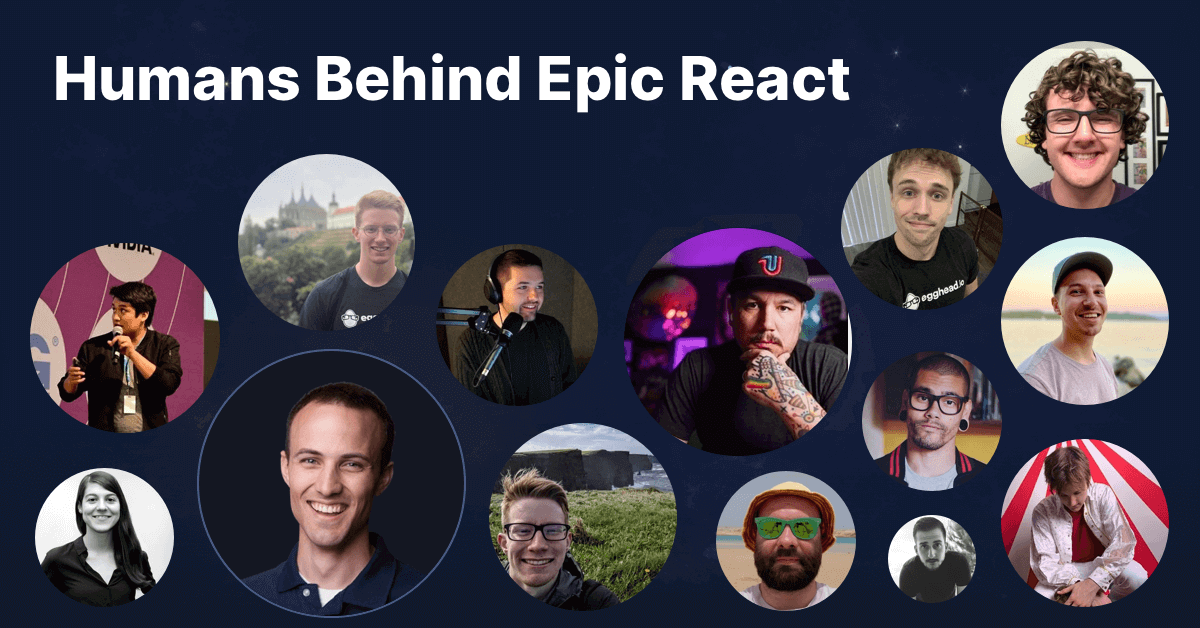
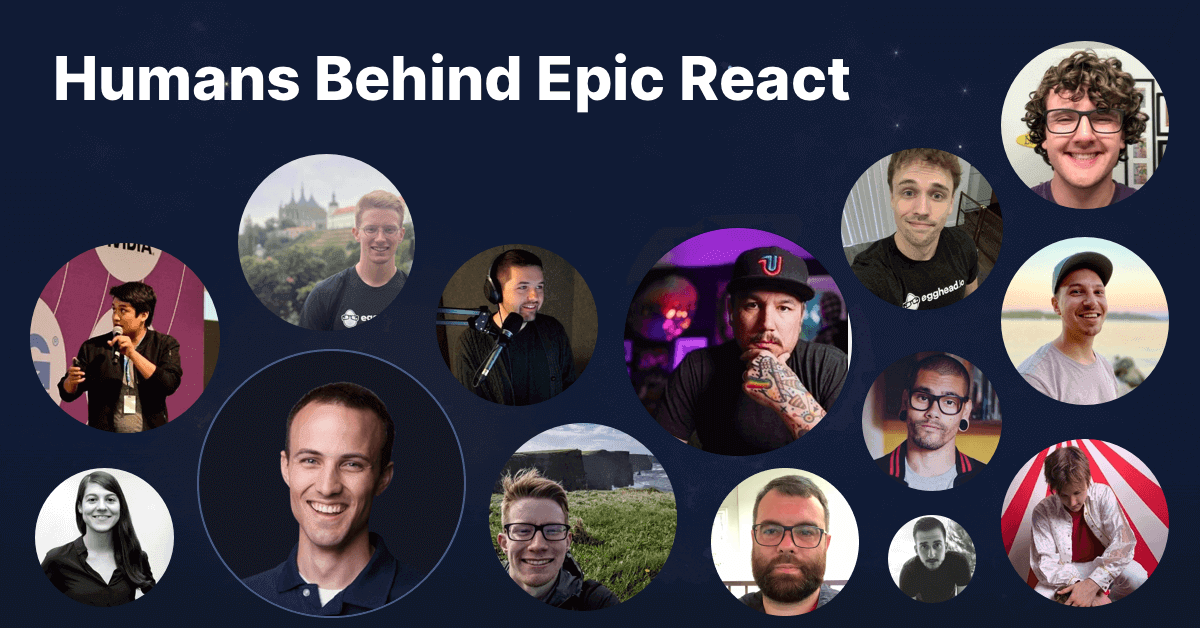
/credits page

Changed region(s): [[0.5858, 0.7261, 0.74, 0.9984]]

diff --git a/apps/epic-react/src/pages/credits.tsx b/apps/epic-react/src/pages/credits.tsx
@@ -1,0 +1,110 @@
+import React from 'react'
+import Image from 'next/image'
+import Link from 'next/link'
+
+import Layout from '@/components/app/layout'
+import Divider from '@/components/divider'
+import team from '@/content/team'
+
+const CreditsPage = () => {
+  return (
+    <Layout
+      meta={{
+        title: 'Epic React Production Credits',
+        ogImage: {
+          url: `${process.env.NEXT_PUBLIC_URL}/og-images/credits@2x.png`,
+          alt: 'og image',
+        },
+      }}
+      className="relative"
+    >
+      <div className="mx-auto max-w-screen-lg px-8 py-24 sm:pb-32 sm:pt-16">
+        <div className="mx-auto max-w-lg">
+          <Image
+            src="/assets/space-eggo@2x.png"
+            alt="space eggo"
+            width={1612}
+            height={1328}
+          />
+        </div>
+        <h1 className="mt-6 text-center text-[44px] font-bold leading-tight">
+          Humans Behind Epic React
+        </h1>
+        <Divider className="mb-16 mt-10" />
+        <div className="prose mx-auto my-16 lg:prose-xl">
+          <p>
+            EpicReact.dev is the best place for web developers of all experience
+            levels to learn React from the basics through to advanced concepts
+            and building a real-world application.
+          </p>
+
+          <p>
+            Kent C. Dodds and egghead have collaborated to make Epic React a
+            truly high-quality and delightful learning experience for you. Kent
+            created, designed and recorded all the content, while egghead team
+            members and collaborators provided planning, design and development
+            support. Epic React is also built using egghead infrastructure as
+            the CMS.
+          </p>
+
+          <p>Meet the humans who have helped make Epic React possible.</p>
+        </div>
+        <div className="grid grid-cols-1 gap-16 sm:grid-cols-2 sm:gap-8">
+          {team.map((person) => (
+            <div
+              className="flex flex-col items-center overflow-hidden rounded-lg"
+              key={person.name}
+            >
+              <div className="w-48 overflow-hidden rounded-lg sm:w-64">
+                <Image
+                  src={`${process.env.NEXT_PUBLIC_URL}/assets/team${person.avatar}`}
+                  alt={person.name}
+                  width={256}
+                  height={256}
+                  className="w-full bg-gray-100"
+                />
+              </div>
+              <div className="mt-4 p-0 text-center sm:mt-0 sm:p-8">
+                <h1 className="text-2xl font-bold">{person.name}</h1>
+                <h2 className="my-3 text-sm uppercase tracking-wider text-react">
+                  {person.title}
+                </h2>
+                <p className="text-lg leading-relaxed text-er-gray-700">
+                  {person.description}
+                </p>
+                {person.link && (
+                  <Link
+                    href={person.link.url}
+                    className="mt-4 inline-flex cursor-pointer items-center rounded-md bg-er-gray-200 px-3 py-2"
+                    target="_blank"
+                  >
+                    {person.link.label === 'Twitter' ? (
+                      //    prettier-ignore
+                      <svg className="mr-1 text-react" xmlns="http://www.w3.org/2000/svg" width="20" height="20" viewBox="0 0 24 24"><g fill="currentColor"><path fill="none" d="M0 0h24v24H0z"></path><path d="M22.162 5.656a8.384 8.384 0 0 1-2.402.658A4.196 4.196 0 0 0 21.6 4c-.82.488-1.719.83-2.656 1.015a4.182 4.182 0 0 0-7.126 3.814 11.874 11.874 0 0 1-8.62-4.37 4.168 4.168 0 0 0-.566 2.103c0 1.45.738 2.731 1.86 3.481a4.168 4.168 0 0 1-1.894-.523v.052a4.185 4.185 0 0 0 3.355 4.101 4.21 4.21 0 0 1-1.89.072A4.185 4.185 0 0 0 7.97 16.65a8.394 8.394 0 0 1-6.191 1.732 11.83 11.83 0 0 0 6.41 1.88c7.693 0 11.9-6.373 11.9-11.9 0-.18-.005-.362-.013-.54a8.496 8.496 0 0 0 2.087-2.165z"></path></g></svg>
+                    ) : (
+                      //  prettier-ignore
+                      <svg className="mr-1 text-react" xmlns="http://www.w3.org/2000/svg" width="20" height="20" viewBox="0 0 24 24"><g fill="currentColor"><path fill="none" d="M0 0h24v24H0z"/><path d="M19.989 11.572a7.96 7.96 0 0 0-1.573-4.351 9.749 9.749 0 0 1-.92.87 13.157 13.157 0 0 1-3.313 2.01c.167.35.32.689.455 1.009v.003a9.186 9.186 0 0 1 .11.27c1.514-.17 3.11-.108 4.657.101.206.028.4.058.584.088zm-9.385-7.45a46.164 46.164 0 0 1 2.692 4.27c1.223-.482 2.234-1.09 3.048-1.767a7.88 7.88 0 0 0 .796-.755A7.968 7.968 0 0 0 12 4a8.05 8.05 0 0 0-1.396.121zM4.253 9.997a29.21 29.21 0 0 0 2.04-.123 31.53 31.53 0 0 0 4.862-.822 54.365 54.365 0 0 0-2.7-4.227 8.018 8.018 0 0 0-4.202 5.172zm1.53 7.038c.388-.567.898-1.205 1.575-1.899 1.454-1.49 3.17-2.65 5.156-3.29l.062-.018c-.165-.364-.32-.689-.476-.995-1.836.535-3.77.869-5.697 1.042-.94.085-1.783.122-2.403.128a7.967 7.967 0 0 0 1.784 5.032zm9.222 2.38a35.947 35.947 0 0 0-1.632-5.709c-2.002.727-3.597 1.79-4.83 3.058a9.77 9.77 0 0 0-1.317 1.655A7.964 7.964 0 0 0 12 20a7.977 7.977 0 0 0 3.005-.583zm1.873-1.075a7.998 7.998 0 0 0 2.987-4.87c-.34-.085-.771-.17-1.245-.236a12.023 12.023 0 0 0-3.18-.033 39.368 39.368 0 0 1 1.438 5.14zM12 22C6.477 22 2 17.523 2 12S6.477 2 12 2s10 4.477 10 10-4.477 10-10 10z"/></g></svg>
+                    )}
+                    {person.link.label}
+                  </Link>
+                )}
+              </div>
+            </div>
+          ))}
+        </div>
+        <div className="mt-12 flex justify-center">
+          <a href="https://egghead.io" target="_blank">
+            <Image
+              src="/assets/egghead-logo.svg"
+              alt="eggheadio logo"
+              width={200}
+              height={50}
+            />
+          </a>
+        </div>
+      </div>
+    </Layout>
+  )
+}
+
+export default CreditsPage

diff --git a/apps/epic-react/src/content/team.ts b/apps/epic-react/src/content/team.ts
@@ -1,0 +1,114 @@
+export default [
+  {
+    name: 'Kent C. Dodds',
+    title: 'Workshop Creation and Instruction',
+    description:
+      "Kent designed, created and recorded all the material for Epic React to teach you everything he knows about React in a clear, path-driven way. He's rigorously tested the content in a series of live workshops and revised it based on feedback from learners.",
+    link: {url: 'https://twitter.com/kentcdodds', label: 'Twitter'},
+    avatar: '/kent-c-dodds.jpg',
+  },
+  {
+    name: 'Joel Hooks',
+    title: 'Executive Producer',
+    description:
+      'Joel managed and coordinated the production of Epic React, working closely with Kent from conception to implementation as well as serving as technical architect and lead developer for the custom courseware that drives the course.',
+    link: {url: 'https://twitter.com/jhooks', label: 'Twitter'},
+    avatar: '/joel-hooks.jpg',
+  },
+  {
+    name: 'Maggie Appleton',
+    title: 'Art Direction',
+    description:
+      'Maggie translated the concepts taught in Epic React into the space-themed metaphors and provided a cohesive creative vision for the beautiful illustration work.',
+    link: {url: 'https://twitter.com/mappletons', label: 'Twitter'},
+    avatar: '/maggie-appleton.jpg',
+  },
+  {
+    name: 'Vojta Holik',
+    title: 'UI/UX Design & Development',
+    description:
+      'As product designer/developer, Vojta handled the UI/UX design and development of Epic React.',
+    link: {url: 'https://twitter.com/vojta_holik', label: 'Twitter'},
+    avatar: '/vojta-holik.jpg',
+  },
+  {
+    name: 'Ian Jones',
+    title: 'Back-End Development / Infrastructure',
+    description:
+      "Ian did the back-end development to build Epic React as a standalone product using Gatsby and MDX for this massive workshop, using egghead's infrastructure as the CMS.",
+    link: {url: 'https://twitter.com/_jonesian', label: 'Twitter'},
+    avatar: '/ian-jones.jpg',
+  },
+  {
+    name: 'Taylor Bell',
+    title: 'Learning Design Support',
+    description:
+      'Taylor worked with Kent during the workshop design process to help define the learner outcomes and concepts that would be taught in each of the modules, as well as the plan to achieve those outcomes.',
+    link: {url: 'https://twitter.com/taylorbell', label: 'Twitter'},
+    avatar: '/taylor-bell.jpg',
+  },
+  {
+    name: 'Zac Jones',
+    title: 'Content Production and Review',
+    description:
+      'Zac did UX testing on the workshop modules — reviewing them for any quality control issues and ensuring the workflow of each makes sense for learners.',
+    link: {url: 'https://twitter.com/zacjones93', label: 'Twitter'},
+    avatar: '/zac-jones.jpg',
+  },
+  {
+    name: 'Yevhen Nahalskyi',
+    title: 'UI/UX Development',
+    description:
+      'Yevhen contributed to the front-end development with his CSS wizardry.',
+    link: {url: 'https://twitter.com/nahalskyi', label: 'Twitter'},
+    avatar: '/yevhen-nahalskyi.jpg',
+  },
+  {
+    name: 'Haze Provinsal',
+    title: 'Content Production and Review',
+    description:
+      'Haze did all video editing for each of the 350 lessons to ensure a smooth viewing experience.',
+    link: {url: 'https://twitter.com/HazeProvinsal', label: 'Twitter'},
+    avatar: '/haze-provinsal.jpg',
+  },
+  {
+    name: 'Lucas Minter',
+    title: 'Content Production and Review',
+    description:
+      'Lucas reviewed the edited lessons to identify any quality issues that needed fixing and reviewed accompanying transcripts for accuracy.',
+    link: {url: 'https://twitter.com/lucasminter', label: 'Twitter'},
+    avatar: '/lucas-minter.jpg',
+  },
+  {
+    name: 'Cree Provinsal',
+    title: 'Content Production and Review',
+    description:
+      'Cree reviewed and edited lesson transcripts to ensure they were accurate and matched up with the lessons.',
+    link: {url: 'https://twitter.com/cprovinsal', label: 'Twitter'},
+    avatar: '/cree-provinsal.jpg',
+  },
+  {
+    name: 'Lauro Silva',
+    title: 'Content Production and Review',
+    description:
+      "Lauro did UX testing on the workshop's models, reviewed lesson transcripts, and helped with coordinating the content review efforts.",
+    link: {url: 'https://twitter.com/laurosilvacom', label: 'Twitter'},
+    avatar: '/lauro-silva.jpg',
+  },
+  {
+    name: 'Gustavo Henrique',
+    title: 'Illustration',
+    description:
+      'Gustavo is responsible for creating the delightful 3D illustrations used throughout Epic React.',
+    link: {url: 'https://dribbble.com/guutv', label: 'Dribbble'},
+    avatar: '/gustavo-henrique.jpg',
+  },
+  {
+    name: 'David Gil',
+    title: 'Illustration',
+    description:
+      'David is responsible for creating the delightful 3D illustrations used throughout Epic React.',
+    // link: { url: 'https://sariselka.com',label: "Personal Site" },
+    avatar: '/david-gil.jpg',
+  },
+]
